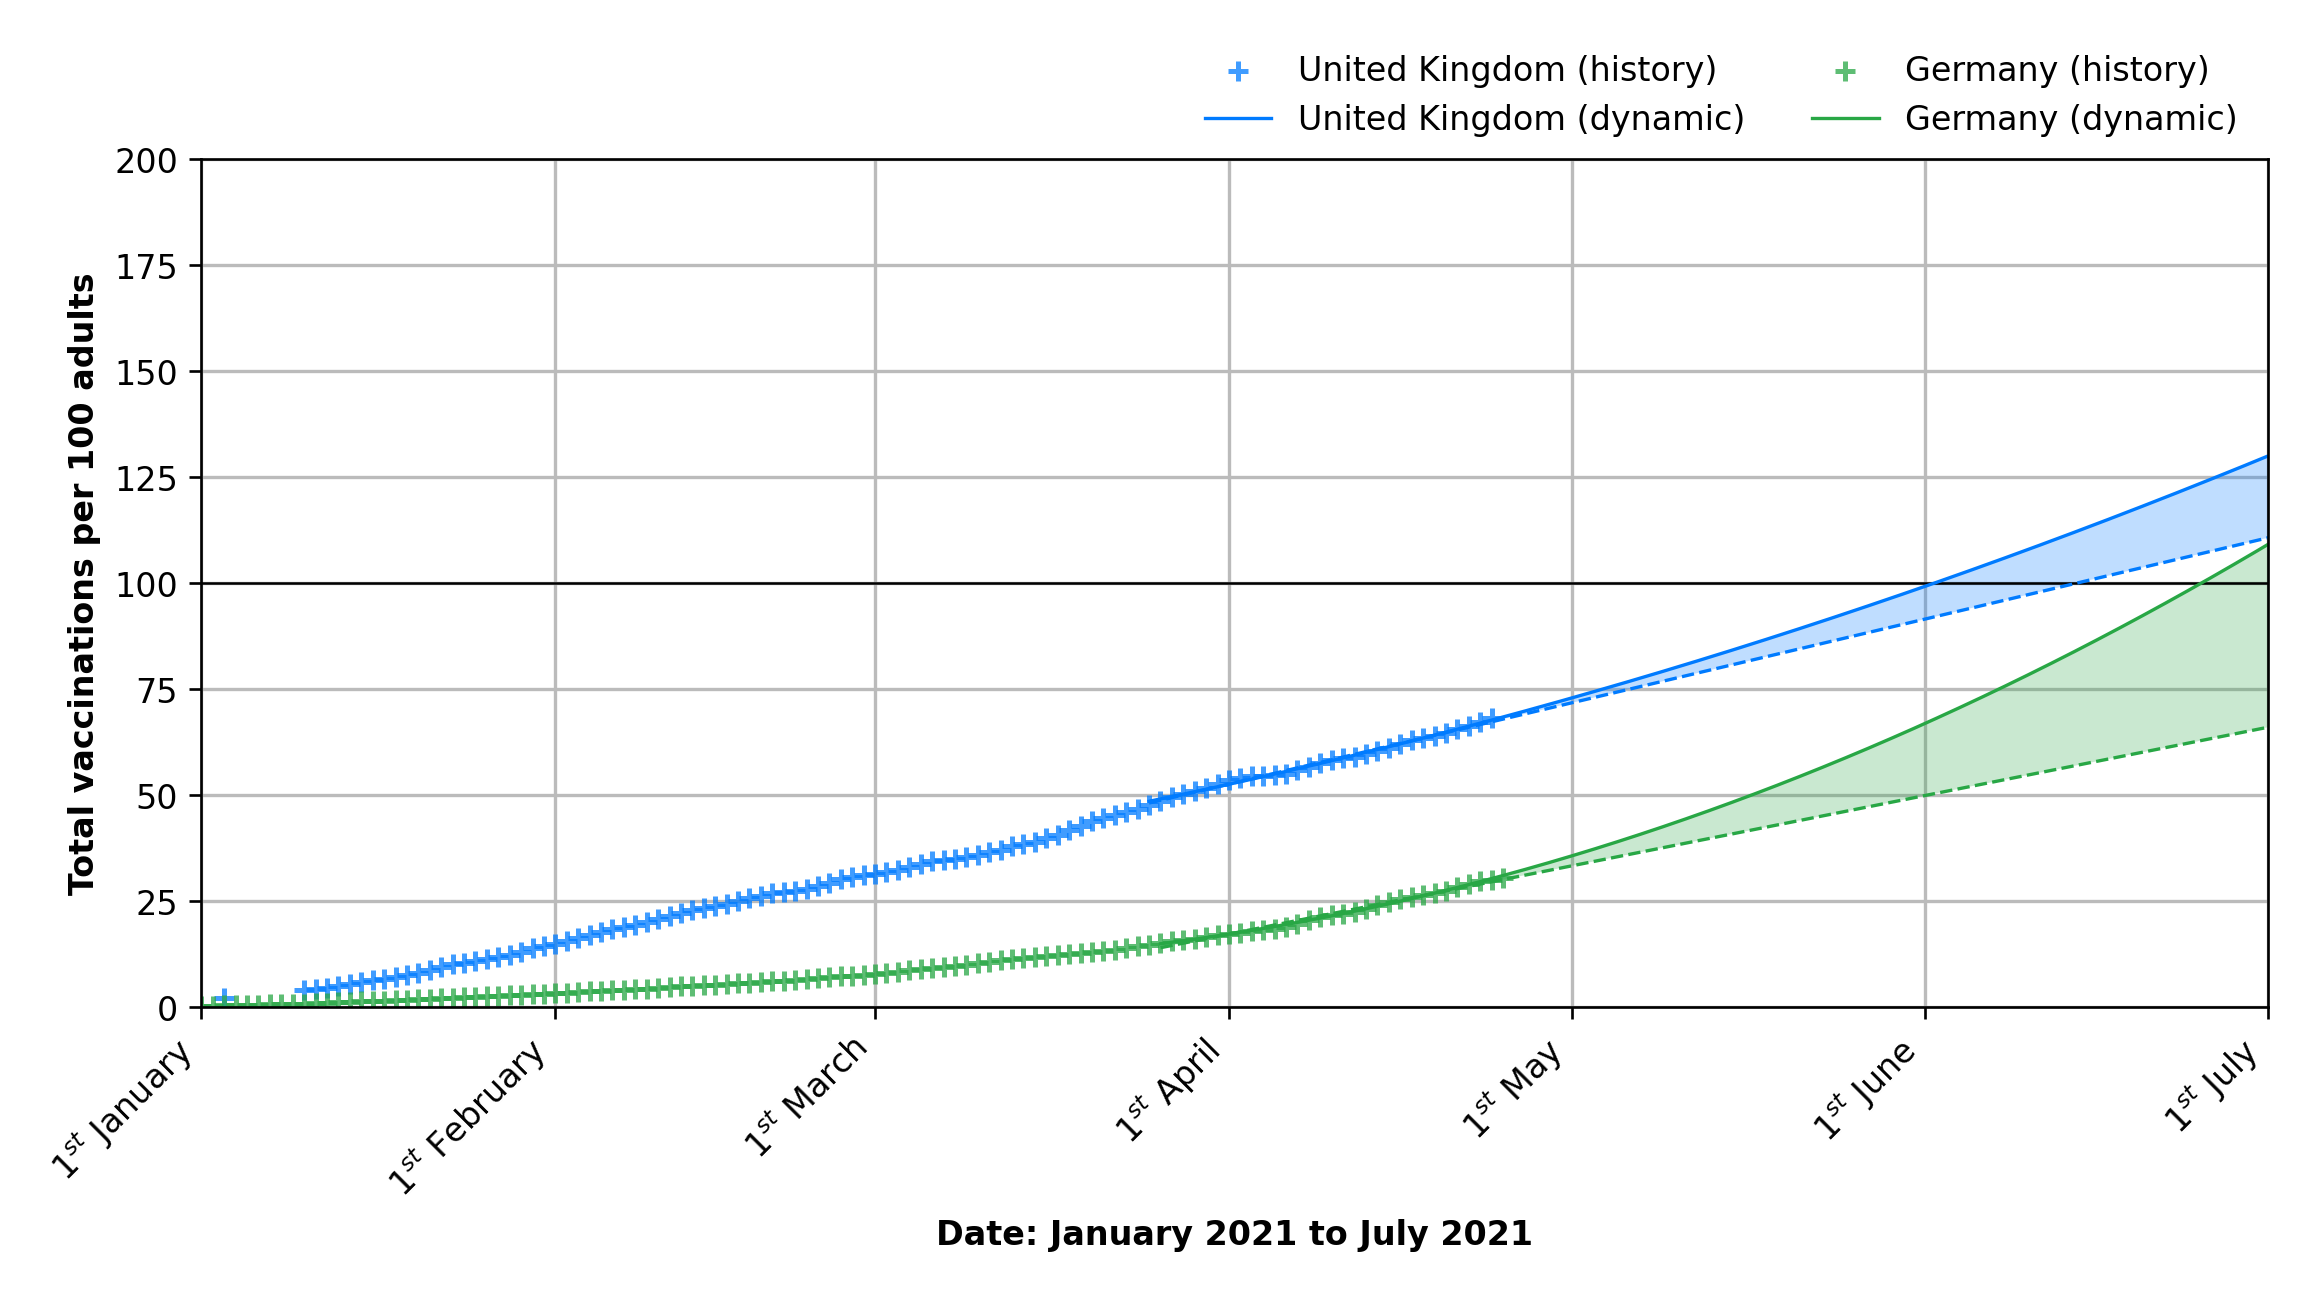
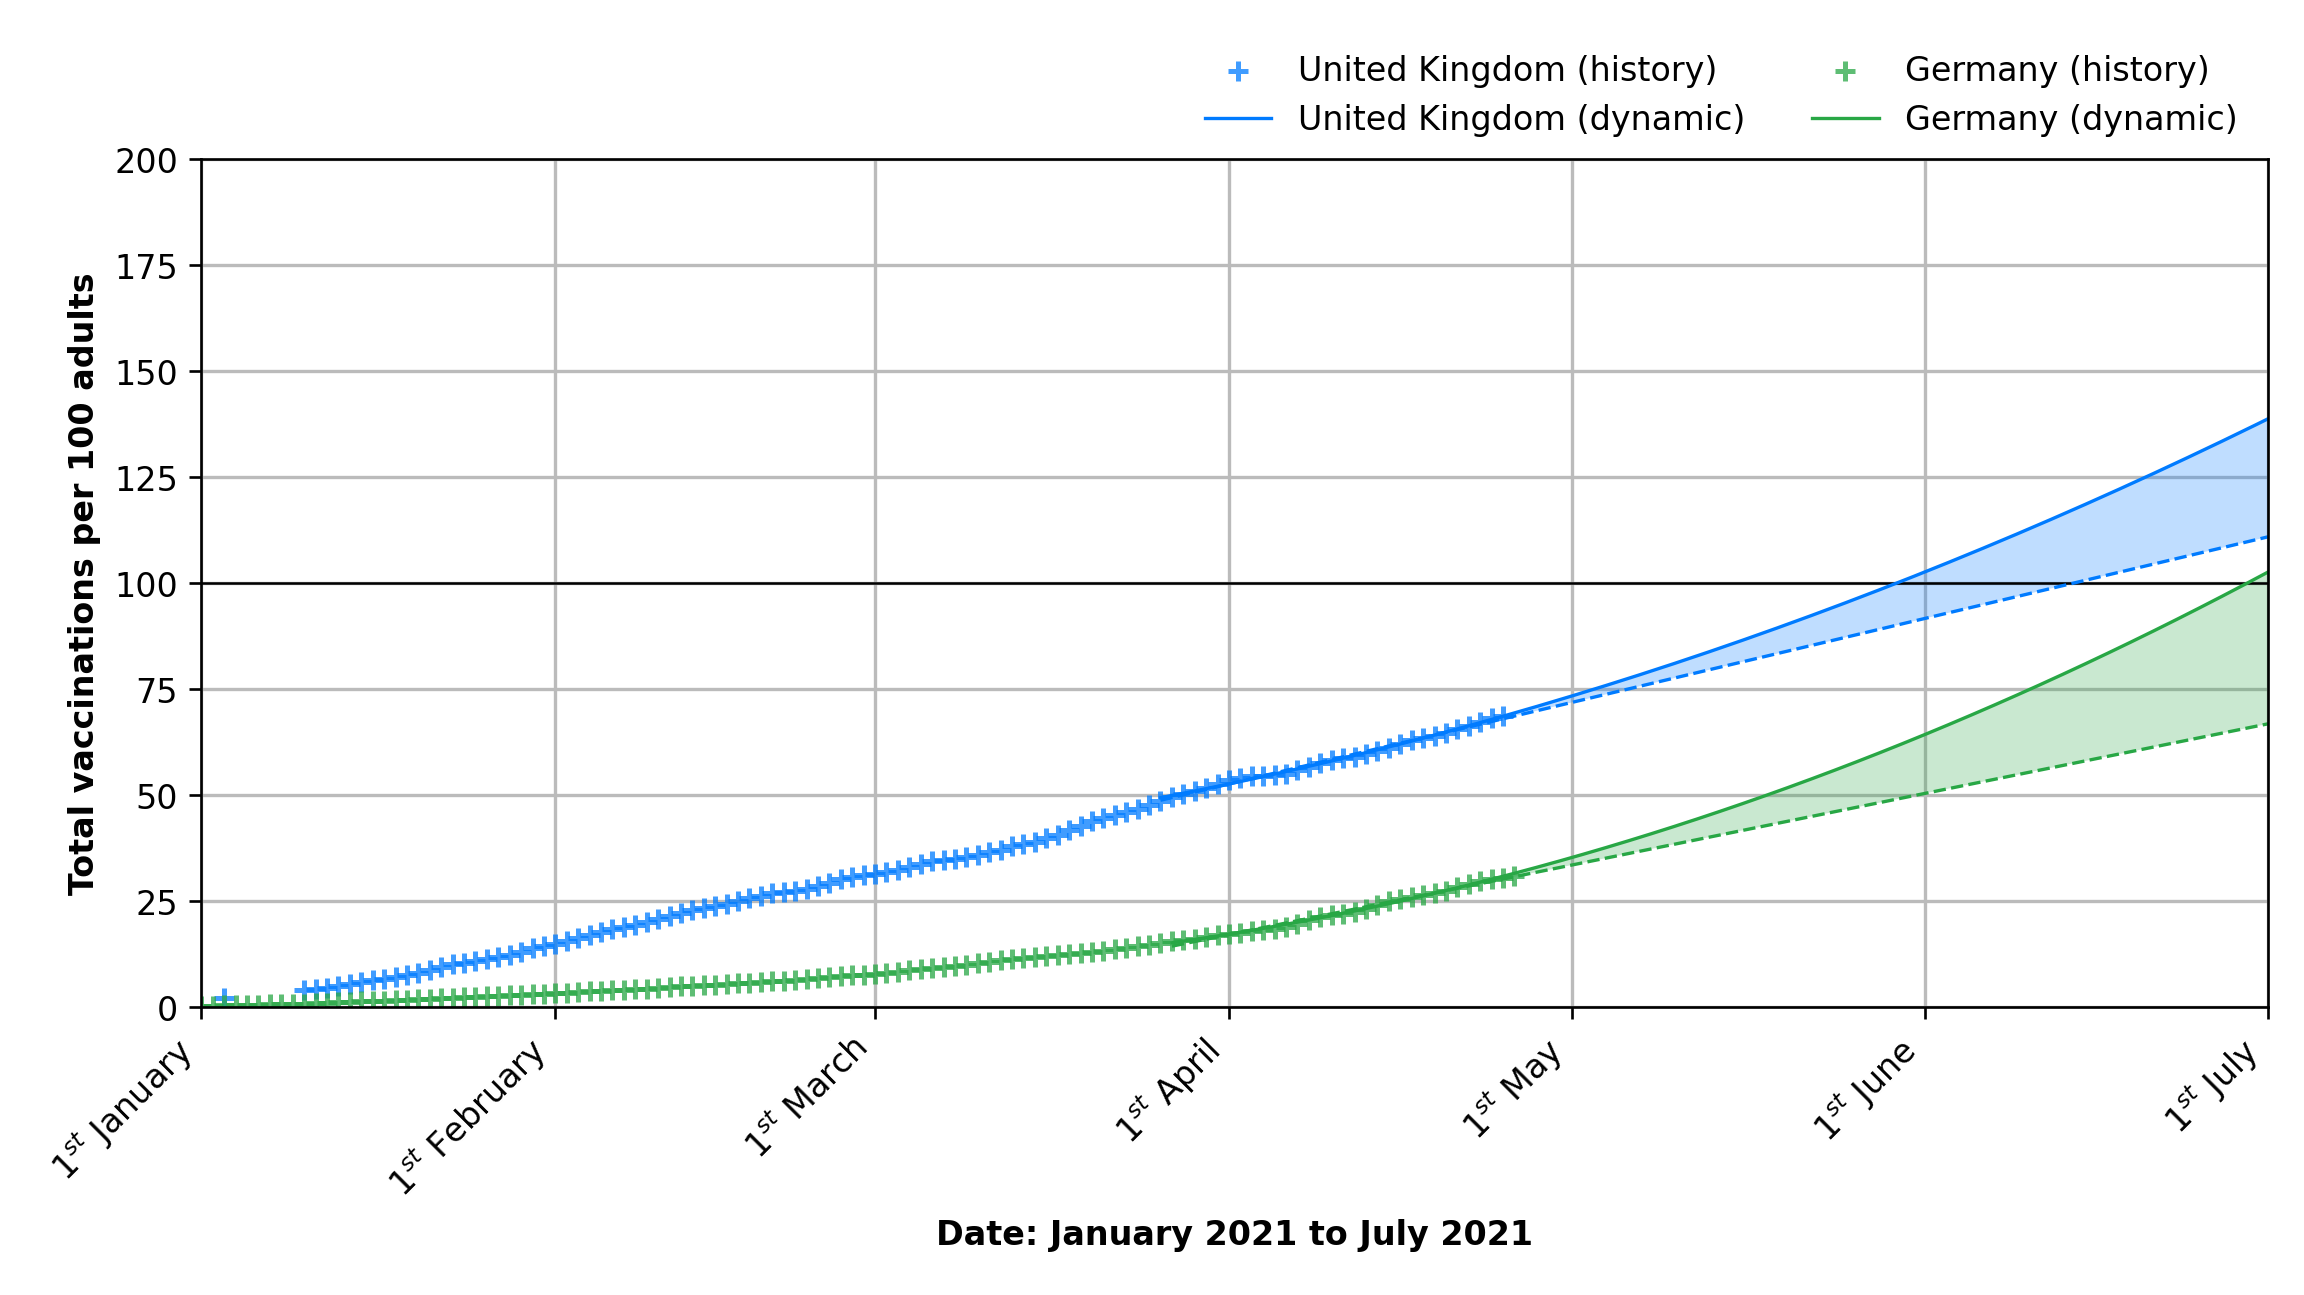
Deploying to gh-pages from @ lambdapioneer/vactrend@0b151e50bae144ff27c39ffb07cd62d871ed93a9 🚀

diff --git a/index.html b/index.html
@@ -37,13 +37,13 @@
                 <div class="card">
                     <div class="card-header">🇬🇧 United Kingdom</div>
                     <div class="card-body">
-                        <h3 class="font-weight-bold" style="color: #007bff">68.13 <small>(+0.94/d)</small></h3>
+                        <h3 class="font-weight-bold" style="color: #007bff">68.72 <small>(+0.50/d)</small></h3>
                         <p class="mt-n2">Vaccinations per 100 adults</p>
-                        <h3 class=" font-weight-bold">02 June 2021</h3>
+                        <h3 class=" font-weight-bold">30 May 2021</h3>
                         <p class="mt-n2">Earliest day: 100 vacc. per 100 adults</p>
-                        <h3 class=" font-weight-bold">26 August 2021</h3>
+                        <h3 class=" font-weight-bold">11 August 2021</h3>
                         <p class="mt-n2">Earliest day: 200 vacc. per 100 adults</p>
-                        <p class="card-text"><small class="text-muted">Last data from 24 April 2021.</small></p>
+                        <p class="card-text"><small class="text-muted">Last data from 25 April 2021.</small></p>
                     </div>
                 </div>
             </div>
@@ -52,13 +52,13 @@
                 <div class="card">
                     <div class="card-header">🇩🇪 Germany</div>
                     <div class="card-body">
-                        <h3 class="font-weight-bold" style="color: #28a745">30.37 <small>(+0.32/d)</small></h3>
+                        <h3 class="font-weight-bold" style="color: #28a745">30.9 <small>(+0.48/d)</small></h3>
                         <p class="mt-n2">Vaccinations per 100 adults</p>
-                        <h3 class=" font-weight-bold">26 June 2021</h3>
+                        <h3 class=" font-weight-bold">30 June 2021</h3>
                         <p class="mt-n2">Earliest day: 100 vacc. per 100 adults</p>
-                        <h3 class=" font-weight-bold">18 August 2021</h3>
+                        <h3 class=" font-weight-bold">26 August 2021</h3>
                         <p class="mt-n2">Earliest day: 200 vacc. per 100 adults</p>
-                        <p class="card-text"><small class="text-muted">Last data from 25 April 2021.</small></p>
+                        <p class="card-text"><small class="text-muted">Last data from 26 April 2021.</small></p>
                     </div>
                 </div>
             </div>
